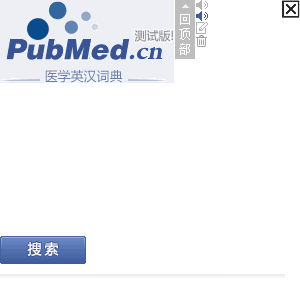
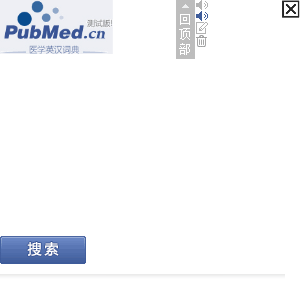
完成弹出框查询功能

Changed region(s): [[0.0, 0.0, 0.6, 0.3], [0.03, 0.24, 0.12, 0.27]]

diff --git a/content.js b/content.js
@@ -7,33 +7,125 @@
 
 ~function() {
     var MIN_WORD_LENGTH = 2, MAX_WORD_LENGTH = 32;
-    var body = document.getElementsByTagName("body")[0],
+
+    var body = document.body,
         popup = document.getElementById('J_PubMed_Popup'),
-        popupClose = document.getElementById('J_PubMed_PopupClose');
+        popupClose = document.getElementById('J_PubMed_PopupClose'), 
+        searchForm = document.getElementById('J_Form'),
+        searchContent = document.getElementById('J_Content'),
+        searchWord = document.getElementById('J_Word');
+
+    var formatter = '<h4>{word} <span>({phonetic})</span></h4> <dl> <dt>含义</dt> <dd>{definition}</dd> <dt>例句</dt> <dd>{sentences}</dd> <dl>';
 
     function trim(s) {
         return s.replace(/(^\s*)|(\s*$)/g, ""); 
+    }
+
+    function stopEvent(e) {
+        if (e.stopPropagation) {
+            e.stopPropagation();
+        }
+        e.preventDefault();
+    }
+
+    function isValidWord(word) {
+        var pregMatchWord = new RegExp('^\\w{' + MIN_WORD_LENGTH + ',' + MAX_WORD_LENGTH +'}$');
+        return pregMatchWord.test(word);
     }
 
     function decidePopupPostioin(e) {
         var left = 0, top = 0, popupWidth = popup.clientWidth;
 
         if (e.pageX || e.pageY) {
-            left = e.pageX - document.body.scrollLeft;
-            top = e.pageY - document.body.scrollTop;
+            left = e.pageX - body.scrollLeft;
+            top = e.pageY - body.scrollTop;
         } else {
-            left = e.clientX + document.body.scrollLeft - document.body.clientLeft;
-            top = e.clientY + document.body.scrollTop  - document.body.clientTop;
+            left = e.clientX + body.scrollLeft - body.clientLeft;
+            top = e.clientY + body.scrollTop  - body.clientTop;
         }
 
+        console.info(popupWidth);
+        console.info(left);
+        console.info(body.clientWidth);
+
         if (popupWidth + left > body.clientWidth) {
-            left = body.clientWidth - popupWidth * 1.5 ;
+            left = body.clientWidth - popupWidth * 1.5;
         }
 
         popup.style.left = left + 'px';
         popup.style.top  = top + 'px';
     }
 
+    // @see https://code.google.com/p/tbra/source/search?q=format&origq=format&btnG=Search+Trunk
+    var formatMessage = function (msg, values, filter) {
+        var pattern = /\{([\w-]+)?\}/g;
+        return function(msg, values, filter) {
+            return msg.replace(pattern, function(match, key) {
+                return filter ? filter(values[key], key) : values[key];
+        });
+    }}();
+
+
+    var getValidObject = function(data) {
+        var definition = "", sentences = "";
+
+        if (data.sentences) {
+            var tmp = [], index;
+            for (index in data.sentences) {
+                tmp.push(data.sentences[index].cn + "<br />" + data.sentences[index].en);
+            }
+            sentences = tmp.join("<br /></br />");
+        }
+
+        if (data.definition) {
+            var tmp = [], index;
+            for (index in data.definition) {
+                var def = data.definition[index];
+                for (var i in def) {
+                    tmp.push(i + ": " + def[i]);
+                }
+            }
+            definition = tmp.join("<br />");
+        }
+
+        return {
+            word: data.en_word,
+            phonetic: '英['+ data.phonetic.BrE +'] 美['+ data.phonetic.NamE +']',
+            sentences: sentences,
+            definition: definition
+        }
+    }
+
+    function showResponse(response) {
+        var result = '抱歉，没有找到需要的结果';
+        if (response && response.data) {
+            result = formatMessage(formatter, getValidObject(response.data))
+        }
+
+        searchContent.innerHTML = result;
+    }
+
+    // inform query
+    if (typeof searchForm != 'undefinded') {
+        searchForm.addEventListener('submit', function(e) {
+            var word = searchWord.value;
+            if (isValidWord(word)) {
+                searchContent.innerHTML = "请稍候";
+                searchContent.style.display = 'block';
+                chrome.runtime.getBackgroundPage(function(backgroundPage) {
+                    backgroundPage.fetchTranslate(word, showResponse);
+                });
+            } else {
+                searchWord.value = "";
+                alert('请输入有效的英文单词');
+            }
+            stopEvent(e);
+        });
+    } else {
+        
+    }
+
+    /*
     window.addEventListener("scroll", function(e) {
         if (popup.style.display != 'none') {
             popup.style.display = 'none';
@@ -44,21 +136,27 @@
        var sText = trim((document.selection == undefined) ? 
             document.getSelection().toString() : document.selection.createRange().text);
 
-        var pregMatchWord = new RegExp('^\\w{' + MIN_WORD_LENGTH + ',' + MAX_WORD_LENGTH +'}$');
-
-        if (pregMatchWord.test(sText)) {
-            decidePopupPostioin(e);
+        if (isValidWord(sText)) {
             popup.style.display = 'block';
+            decidePopupPostioin(e);
 
             console.info(sText);
         } else {
             popup.style.display = 'none';
         }
 
-        /*
+                //chrome.extension.sendMessage({command:'search', words: word }, showResponse);
         chrome.extension.sendMessage({ word: "hello" }, function(response) {
             console.log(response);
         });
-        */
     }, false);
+
+    popup.addEventListener("mouseup", function(e) {
+        if (e.stopPropagation) {
+            e.stopPropagation();
+        }
+        e.preventDefault();
+        return false;
+    });
+    */
 }();

diff --git a/background.js b/background.js
@@ -7,41 +7,47 @@
 
 ~function() {
 
+    function getRequestUrl(word) {
+        var baseUrl = "http://localhost/tmp/dict.json";
+        return baseUrl + "?word=" + encodeURIComponent(word);
+    }
+
     function fetchTranslate(words, callback)
     {
         var xhr = new XMLHttpRequest();
         xhr.onreadystatechange = function(data) {
             if (xhr.readyState == 4 && xhr.status == 200 && xhr.responseText != null) {
-                //var resp = JSON.parse(xhr.responseText);
-                console.info(xhr.responseText);
+                var resp = JSON.parse(xhr.responseText);
                 callback(
-                    {data: xhr.responseText }
+                    {
+                        _responseText: xhr.responseText,
+                            data: resp
+                    }
                 );
             } else {
-                //callback(null);
+                callback(null);
             }
         }
 
-        var url = "http://fanyi.youdao.com/translate?client=deskdict&keyfrom=chrome.extension&xmlVersion=1.1&dogVersion=1.0&ue=utf8&i="+encodeURIComponent(words)+"&doctype=xml";
-        xhr.open('GET', url, true);
+        console.info('Send request to: ' + getRequestUrl(words));
+        xhr.open('GET', getRequestUrl(words), true);
         xhr.send();	
     }
-
 
     // Bind Message Listener
     chrome.extension.onMessage.addListener(
         function(request, sender, sendResponse) {
-
             console.log(sender.tab ?
-                "from a content script:" + sender.tab.url :
-            "from the extension");
+                "from a content script:" + sender.tab.url : "from the extension");
 
-            if (request.word == "hello") {
-                //sendResponse({farewell: "goodbye"});
-                console.info('fetch');
-                fetchTranslate('hello', sendResponse);
+            switch(request.command) {
+                case 'search': 
+                    fetchTranslate(request.words, sendResponse);
+                    break;
             }
 
             return true;
     });
+
+    window.fetchTranslate = fetchTranslate;
 }();

diff --git a/popup.html b/popup.html
@@ -2,19 +2,20 @@
 <html>
     <head>
         <meta charset="utf-8" />
-        <title></title>
         <link rel="stylesheet" type="text/css" href="popup.css" />
     </head>
     <body class="chrome-popup">
         <div class="pubmed-popup" id="J_PubMed_Popup">
             <h1 class="logo">Pubmed</h1>
-            <form action="" method="get">
-                <input type="text" name="words" class="" value="" />
+            <form action="" method="get" id="J_Form">
+                <input type="text" maxlength="32" name="words" id="J_Word" class="" value="" />
                 <button type="submit">Search</button>
             </form>
             
-            <div class="content">
-            <h4>{word} <span>({phonetic})</span></h4>
+            <div class="content" id="J_Content">
+                请稍候…
+            <!--
+            <h4>{word_en} <span>({phonetic})</span></h4>
             <dl>
                 <dt>含义</dt>
                 <dd>{definition}</dd>
@@ -22,8 +23,10 @@
                 <dt>例句</dt>
                 <dd>{sentences}</dd>
             <dl>
-            <a href="http://dict.pubmed.cn/{word}.htm" class="more">详细…</a>
+            <a href="http://dict.pubmed.cn/{word_en}.htm" class="more">详细…</a>
+            -->
             </div>
         </div>
+        <script src="content.js"></script>
     </body>
 </html>

diff --git a/popup.css b/popup.css
@@ -5,8 +5,13 @@
  * @link   http://www.gracecode.com/
  */
 
-div.pubmed-popup {
+.chrome-popup div.pubmed-popup h1.logo,
+div.pubmed-popup .popup-title .close,
+.chrome-popup div.pubmed-popup form button[type=submit]{
+    background: url(dictionary.png) no-repeat scroll -999em -999em;
+}
 
+div.pubmed-popup {
     position: fixed;
     z-index: 99999;
 
@@ -35,13 +40,11 @@ div.pubmed-popup .popup-title .close {
     display: inline-block;
     height: 18px;
     width: 18px;
-    background: red;
     position: absolute;
     right: .5em;
     top: .5em;
     cursor: pointer;
     text-indent: -999em;
-    background: url(dictionary.png) no-repeat scroll -999em -999em;
     background-position: -282px 0px;
 }
 
@@ -94,14 +97,12 @@ div.pubmed-popup .content dl dd {
 
 
 .chrome-popup div.pubmed-popup h1.logo {
-    background: url(dictionary.png) no-repeat scroll -999em -999em;
     background-position: 0px 0px;
-    width: 175px;
-    height: 85px;
+    width: 115px;
+    height: 55px;
     text-indent: -999em;
-    margin: 1em auto;
+    margin: .2em 0;
 }
-
 
 .chrome-popup div.pubmed-popup form {
     overflow: hidden;
@@ -115,7 +116,6 @@ div.pubmed-popup .content dl dd {
 }
 
 .chrome-popup div.pubmed-popup form button[type=submit]{
-    background: url(dictionary.png) no-repeat scroll -999em -999em;
     display: inline-block;
     width: 90px;
     height: 35px;

diff --git a/options.html b/options.html
@@ -6,6 +6,6 @@
         <link rel="stylesheet" type="text/css" href="" />
     </head>
     <body>
-        
+        Options!
     </body>
 </html>

diff --git a/README.md b/README.md
@@ -1,4 +1,8 @@
-pubmed-dict-chrome-plugin
-=========================
+# 医学英汉词典
+
 
 丁香园出品的医学英汉词典 Chrome 浏览器插件，支持划词搜索
+
+
+## 更新记录
+
